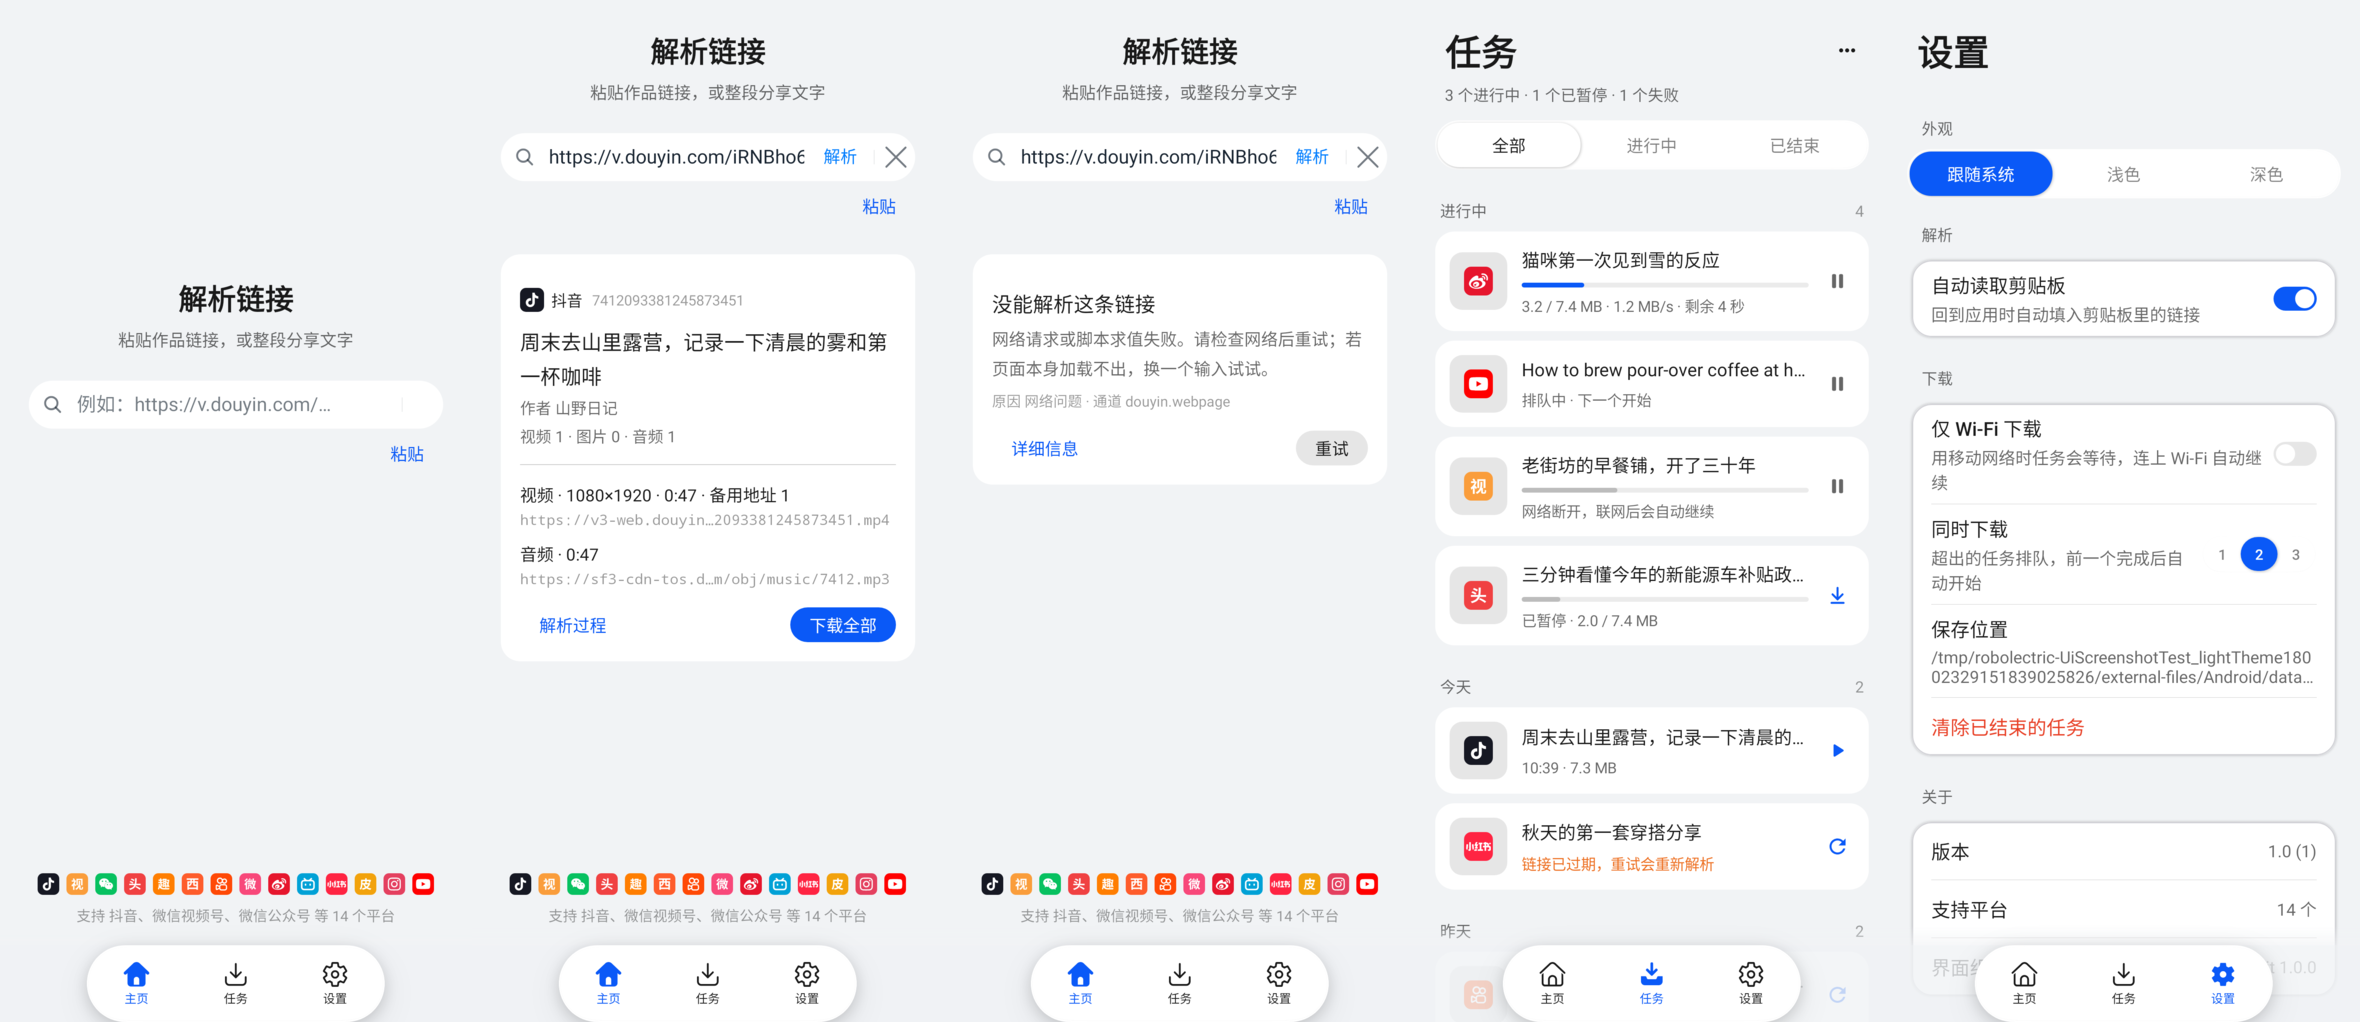
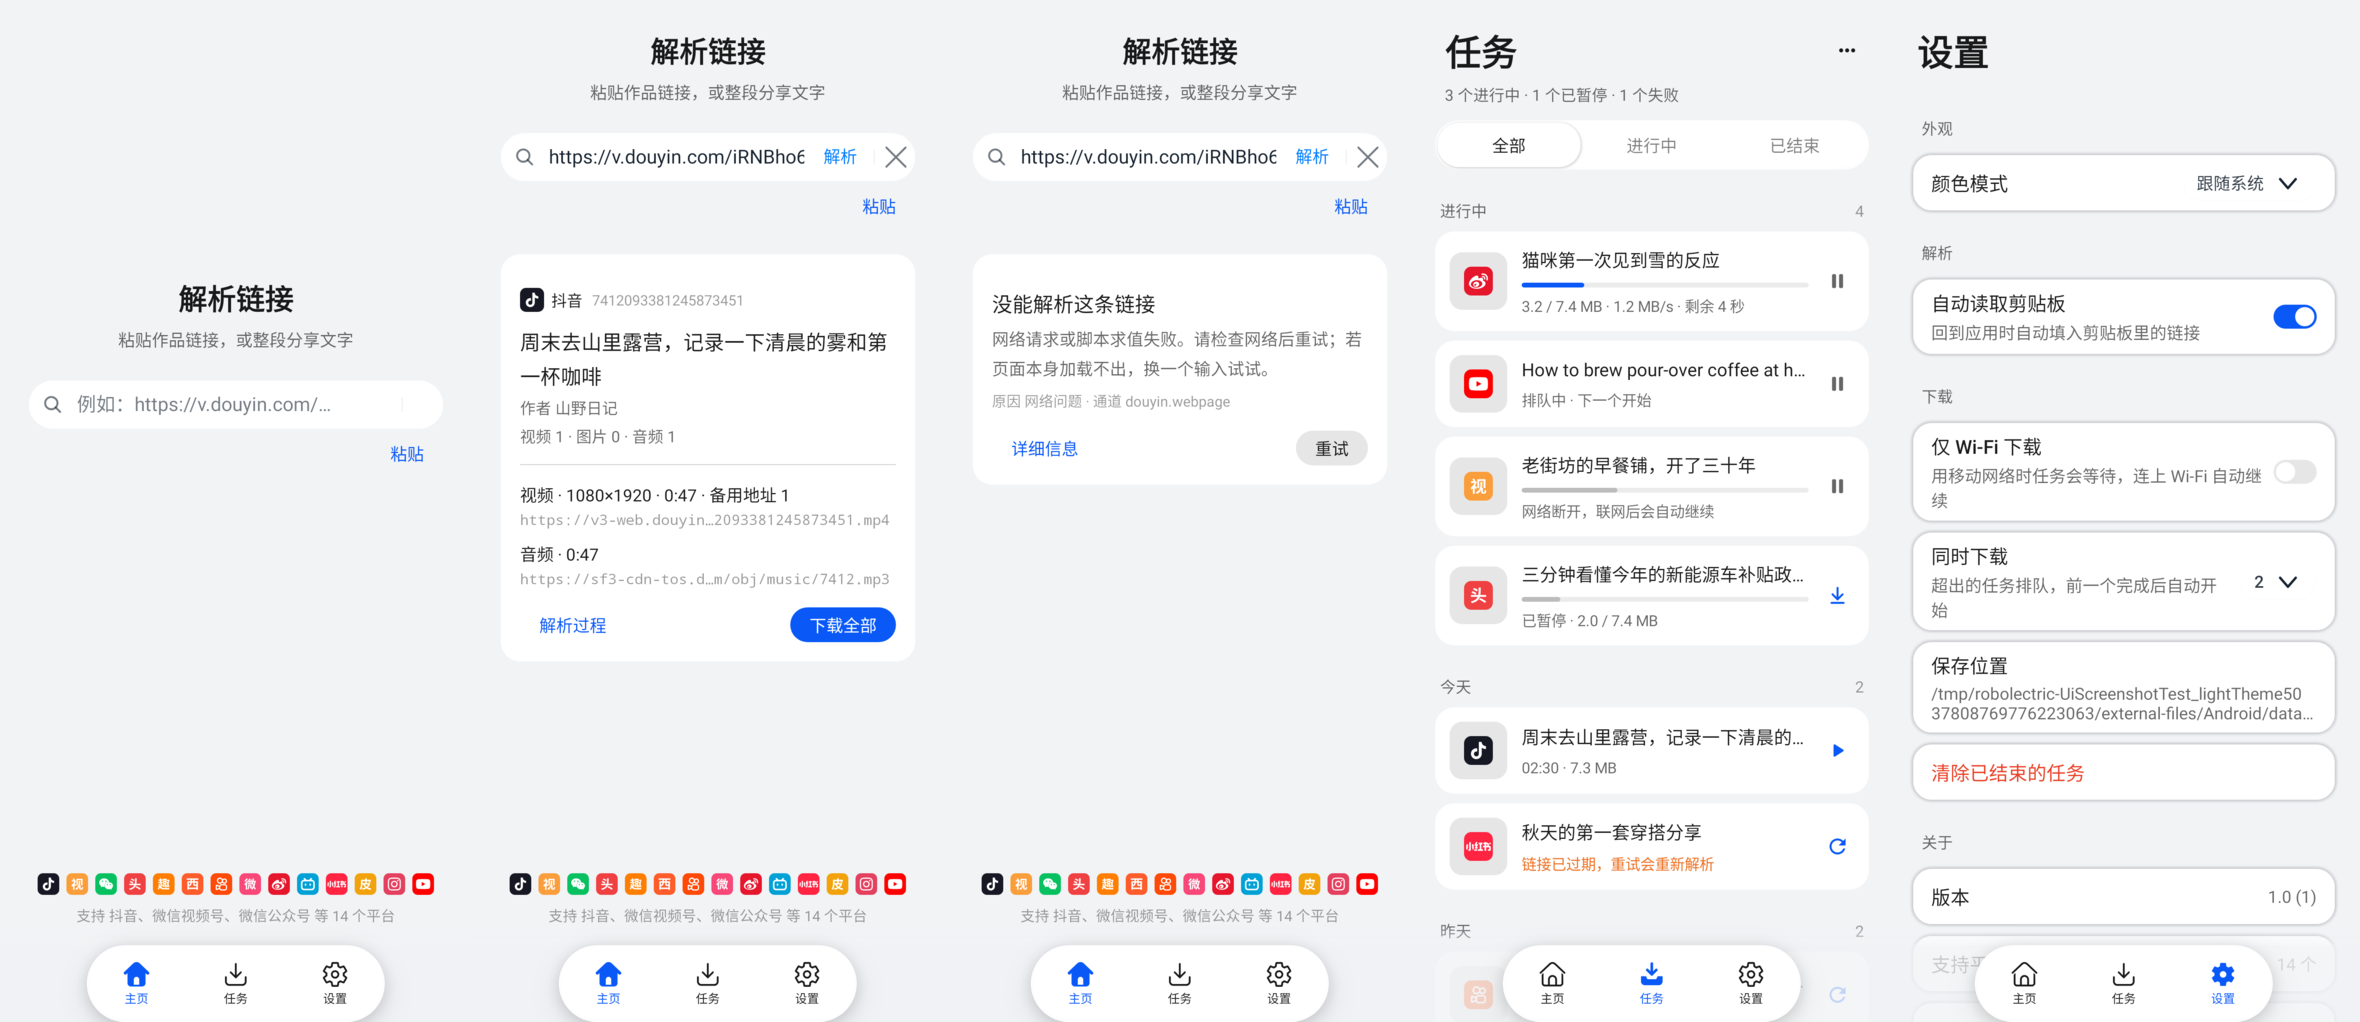
docs: 设置页规格改为独立单行列表与下拉菜单，刷新截图

diff --git a/README.md b/README.md
@@ -73,7 +73,7 @@ $env:JAVA_HOME = "D:\Dev\Env\Java\jdk-21"
   任务页是卡片列表（缩略图兼平台标识 / 标题 + 进度 + 状态 / 一个主操作），按「全部 / 进行中 / 已结束」筛选，
   卡片上暂停 / 继续 / 重试 / 打开，长按取消 / 分享 / 删除，页菜单全部暂停 / 全部继续。
   下载由前台服务承载（通知栏显示进度、可全部暂停）；断网自动等待、恢复后续传，直链过期自动重新解析。
-  设置页含外观、剪贴板、仅 Wi‑Fi 下载、同时下载数（1–3）、保存位置、关于。
+  设置页每项一张独立单行列表：颜色模式（下拉）、剪贴板、仅 Wi‑Fi 下载、同时下载数（1–3，下拉）、保存位置、关于。
   `verifyYouiApiBoundary`（挂在 preBuild）保证 app 只引用 `com.yohu.youi.api.*`。
 - 界面截图：`./gradlew :app:testDebugUnitTest --tests '*UiScreenshotTest*'`，
   Robolectric 渲染浅色 / 深色各 10 张到 `app/build/screenshots/`（非真机，仅用于排版自查）。
